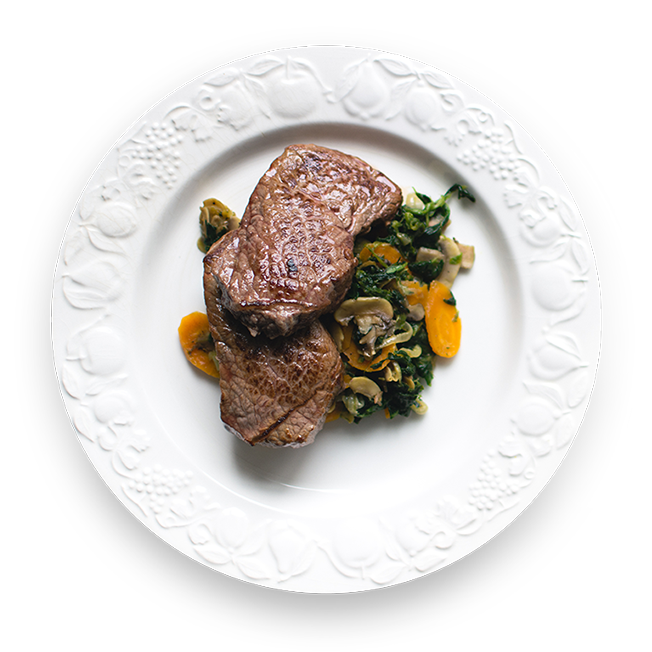
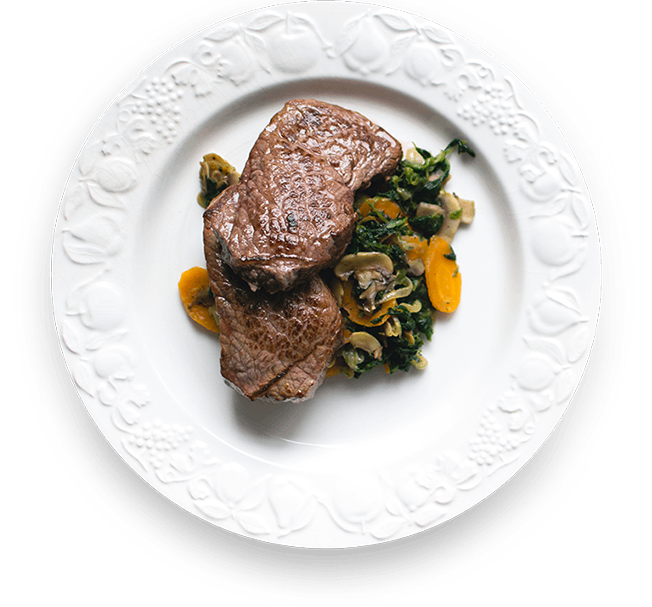
feat: add markup for about section

diff --git a/assets/css/main.min.css b/assets/css/main.min.css
@@ -1,2 +1,2 @@
-.wrapper{max-width:100rem;margin:0 auto}.container{width:100%;max-width:78.125rem;margin:0 auto;padding-left:1.125rem;padding-right:1.125rem}.decorated-heading{display:-webkit-box;display:-ms-flexbox;display:flex;-webkit-box-orient:vertical;-webkit-box-direction:normal;-ms-flex-direction:column;flex-direction:column;-webkit-box-align:center;-ms-flex-align:center;align-items:center}.decorated-heading__decoration{margin-top:1.5625rem}.decorated-heading__decoration--sm{width:14.375rem}*,*::before,*::after{-webkit-box-sizing:border-box;box-sizing:border-box}img,picture{max-width:100%;display:block}body,h1,h2,h3,h4,p,figure,blockquote,dl,dd{margin:0}input,button,textarea,select{font:inherit}h1,.h1,h2,.h2,h3,.h3,h4,.h4,h5,.h5,h6,.h6{font-family:var(--font-primary);font-weight:500}h1--primary,.h1--primary,h2--primary,.h2--primary,h3--primary,.h3--primary,h4--primary,.h4--primary,h5--primary,.h5--primary,h6--primary,.h6--primary{color:red}h1,h1{font-size:2.9rem}h2,h2{font-size:2.25rem}h3,h3{font-size:1.8rem}h4,h4{font-size:1.31rem}h5,h5{font-size:1.2rem}h6,h6{font-size:1.1rem}.header{height:46.875rem;display:-webkit-box;display:-ms-flexbox;display:flex;position:relative;-webkit-box-shadow:inset 0px 50px 85px 10px rgba(25,25,25,0.8);box-shadow:inset 0px 50px 85px 10px rgba(25,25,25,0.8)}.header__bg{position:absolute;z-index:-1;top:0;left:0;width:100%;height:100%;-o-object-fit:cover;object-fit:cover}.header__container{display:-webkit-box;display:-ms-flexbox;display:flex;-webkit-box-orient:vertical;-webkit-box-direction:normal;-ms-flex-direction:column;flex-direction:column}.header__hero{-webkit-box-flex:1;-ms-flex-positive:1;flex-grow:1}.navbar{display:-webkit-box;display:-ms-flexbox;display:flex;height:6.875rem}.navbar__brand{-ms-flex-item-align:center;-ms-grid-row-align:center;align-self:center;font-family:"Yeseva One",cursive;text-transform:uppercase}.navbar__brand-link{color:#fff;font-size:2.25rem;text-decoration:none;-webkit-transition:110ms all ease-in-out;transition:110ms all ease-in-out}.navbar__brand-link:hover{color:#ffc20a}.navbar__nav{display:-webkit-box;display:-ms-flexbox;display:flex;margin-left:auto}.navbar__nav-link{-webkit-box-align:center;-ms-flex-align:center;align-items:center;color:#fff;display:-webkit-box;display:-ms-flexbox;display:flex;font-family:"Gentium Book Basic",serif;font-size:1.31rem;-webkit-box-pack:center;-ms-flex-pack:center;justify-content:center;letter-spacing:.6px;margin-left:1rem;padding:.625rem 1.0625rem;position:relative;text-decoration:none}.navbar__nav-link:hover:not(.navbar__nav-link--active)::before,.navbar__nav-link--active::before{content:"";height:3px;left:0;position:absolute;top:0;width:100%}.navbar__nav-link:hover:not(.navbar__nav-link--active){color:#ffc20a}.navbar__nav-link:hover:not(.navbar__nav-link--active)::before{background-color:rgba(255,255,255,0.28)}.navbar__nav-link--active::before{background-color:rgba(255,255,255,0.71)}.navbar__social{-ms-flex-item-align:center;align-self:center;display:-webkit-box;display:-ms-flexbox;display:flex}.navbar__social-link{-webkit-box-align:center;-ms-flex-align:center;align-items:center;display:-webkit-box;display:-ms-flexbox;display:flex;-webkit-box-pack:center;-ms-flex-pack:center;justify-content:center;margin-left:.3125rem;margin-right:.3125rem}.hero{display:-webkit-box;display:-ms-flexbox;display:flex;-webkit-box-orient:vertical;-webkit-box-direction:normal;-ms-flex-direction:column;flex-direction:column;-webkit-box-pack:center;-ms-flex-pack:center;justify-content:center;-webkit-box-align:center;-ms-flex-align:center;align-items:center;color:#fff;font-family:"Yeseva One",cursive;text-transform:lowercase;padding:6.25rem 7.5rem}.hero__heading{font-size:5.625rem;text-align:center;line-height:1.3}.hero__cta{margin-top:2.1875rem;margin-bottom:2.5rem}.hero__cta .btn{margin-left:.75rem;margin-right:.75rem}.btn{border:none;display:-webkit-inline-box;display:-ms-inline-flexbox;display:inline-flex;font-size:1rem;min-height:47px;padding:0.6em 2.5em;text-align:center;text-decoration:none;text-transform:uppercase;-webkit-transition:220ms all ease-in-out;transition:220ms all ease-in-out;-webkit-box-align:center;-ms-flex-align:center;align-items:center;border-radius:0;cursor:pointer;font-family:"Lato",sans-serif;-webkit-box-pack:center;-ms-flex-pack:center;justify-content:center;line-height:1.1}.btn--primary{background-color:#c90;color:#fff}.btn--primary:focus{-webkit-box-shadow:0 0 0 4px #7a5c00;box-shadow:0 0 0 4px #7a5c00;outline-color:transparent;outline-style:solid}.btn--primary:hover,.btn--primary:active{background-color:#a37a00}.btn--secondary{background-color:rgba(25,25,25,0.7);color:#fff}.btn--secondary:focus{-webkit-box-shadow:0 0 0 4px #191919;box-shadow:0 0 0 4px #191919;outline-color:transparent;outline-style:solid}.btn--secondary:hover,.btn--secondary:active{background-color:#141414}.btn--light{background-color:rgba(255,255,255,0.28);color:#fff}.btn--light:focus{-webkit-box-shadow:0 0 0 4px #999;box-shadow:0 0 0 4px #999;outline-color:transparent;outline-style:solid}.btn--light:hover,.btn--light:active{background-color:rgba(255,255,255,0.8);color:#303030}.btn--sm{font-family:"Open Sans",sans-serif;font-size:1rem;min-height:35px;padding:0.4em 3.8em;text-transform:none}.btn--lg{font-size:1.125rem;min-height:55px;padding:0.7em 2.9em}.icon{height:1.25rem;-webkit-transition:110ms all ease-in-out;transition:110ms all ease-in-out;width:1.25rem}.icon--sm{height:1.4375rem;width:1.4375rem}.icon--primary{fill:#c90}.icon--primary:hover{fill:#fff}
+.wrapper{max-width:100rem;margin:0 auto}.container{width:100%;max-width:78.125rem;margin:0 auto;padding-left:1.125rem;padding-right:1.125rem}.decorated-heading{display:-webkit-box;display:-ms-flexbox;display:flex;-webkit-box-orient:vertical;-webkit-box-direction:normal;-ms-flex-direction:column;flex-direction:column;-webkit-box-align:center;-ms-flex-align:center;align-items:center}.decorated-heading__decoration{margin-top:1.5625rem}.decorated-heading__decoration--sm{width:14.375rem}.py{padding-top:4.375rem;padding-bottom:4.375rem}*,*::before,*::after{-webkit-box-sizing:border-box;box-sizing:border-box}img,picture{max-width:100%;display:block}body,h1,h2,h3,h4,p,figure,blockquote,dl,dd{margin:0}input,button,textarea,select{font:inherit}h1,.h1,h2,.h2,h3,.h3,h4,.h4,h5,.h5,h6,.h6{font-family:"Yeseva One",cursive;font-weight:400}h1,.h1{font-size:2.9rem}h2,.h2{font-size:2.25rem}h3,.h3{font-size:1.8rem}h4,.h4{font-size:1.31rem}h5,.h5{font-size:1.2rem}h6,.h6{font-size:1.1rem}.header{height:46.875rem;display:-webkit-box;display:-ms-flexbox;display:flex;position:relative;-webkit-box-shadow:inset 0px 50px 85px 10px rgba(25,25,25,0.8);box-shadow:inset 0px 50px 85px 10px rgba(25,25,25,0.8)}.header__bg{position:absolute;z-index:-1;top:0;left:0;width:100%;height:100%;-o-object-fit:cover;object-fit:cover}.header__container{display:-webkit-box;display:-ms-flexbox;display:flex;-webkit-box-orient:vertical;-webkit-box-direction:normal;-ms-flex-direction:column;flex-direction:column}.header__hero{-webkit-box-flex:1;-ms-flex-positive:1;flex-grow:1}.about{background-color:rgba(0,128,0,0.541)}.about__wrapper{display:-webkit-box;display:-ms-flexbox;display:flex}.about__about{-webkit-box-flex:0;-ms-flex:0 0 45%;flex:0 0 45%}.about__image-wrapper{-webkit-box-flex:0;-ms-flex:0 0 auto;flex:0 0 auto}.navbar{display:-webkit-box;display:-ms-flexbox;display:flex;height:6.875rem}.navbar__brand{-ms-flex-item-align:center;-ms-grid-row-align:center;align-self:center;font-family:"Yeseva One",cursive;text-transform:uppercase}.navbar__brand-link{color:#fff;font-size:2.25rem;text-decoration:none;-webkit-transition:110ms all ease-in-out;transition:110ms all ease-in-out}.navbar__brand-link:hover{color:#ffc20a}.navbar__nav{display:-webkit-box;display:-ms-flexbox;display:flex;margin-left:auto}.navbar__nav-link{-webkit-box-align:center;-ms-flex-align:center;align-items:center;color:#fff;display:-webkit-box;display:-ms-flexbox;display:flex;font-family:"Gentium Book Basic",serif;font-size:1.31rem;-webkit-box-pack:center;-ms-flex-pack:center;justify-content:center;letter-spacing:.6px;margin-left:1rem;padding:.625rem 1.0625rem;position:relative;text-decoration:none}.navbar__nav-link:hover:not(.navbar__nav-link--active)::before,.navbar__nav-link--active::before{content:"";height:3px;left:0;position:absolute;top:0;width:100%}.navbar__nav-link:hover:not(.navbar__nav-link--active){color:#ffc20a}.navbar__nav-link:hover:not(.navbar__nav-link--active)::before{background-color:rgba(255,255,255,0.28)}.navbar__nav-link--active::before{background-color:rgba(255,255,255,0.71)}.navbar__social{-ms-flex-item-align:center;align-self:center;display:-webkit-box;display:-ms-flexbox;display:flex}.navbar__social-link{-webkit-box-align:center;-ms-flex-align:center;align-items:center;display:-webkit-box;display:-ms-flexbox;display:flex;-webkit-box-pack:center;-ms-flex-pack:center;justify-content:center;margin-left:.3125rem;margin-right:.3125rem}.hero{display:-webkit-box;display:-ms-flexbox;display:flex;-webkit-box-orient:vertical;-webkit-box-direction:normal;-ms-flex-direction:column;flex-direction:column;-webkit-box-pack:center;-ms-flex-pack:center;justify-content:center;-webkit-box-align:center;-ms-flex-align:center;align-items:center;color:#fff;text-transform:lowercase;padding:6.25rem 7.5rem}.hero__heading{font-size:5.625rem;text-align:center;line-height:1.3}.hero__cta{margin-top:2.1875rem;margin-bottom:2.5rem}.hero__cta .btn{margin-left:.75rem;margin-right:.75rem}.btn{border:none;display:-webkit-inline-box;display:-ms-inline-flexbox;display:inline-flex;font-size:1rem;min-height:47px;padding:0.6em 2.5em;text-align:center;text-decoration:none;text-transform:uppercase;-webkit-transition:220ms all ease-in-out;transition:220ms all ease-in-out;-webkit-box-align:center;-ms-flex-align:center;align-items:center;border-radius:0;cursor:pointer;font-family:"Lato",sans-serif;-webkit-box-pack:center;-ms-flex-pack:center;justify-content:center;line-height:1.1}.btn--primary{background-color:#c90;color:#fff}.btn--primary:focus{-webkit-box-shadow:0 0 0 4px #7a5c00;box-shadow:0 0 0 4px #7a5c00;outline-color:transparent;outline-style:solid}.btn--primary:hover,.btn--primary:active{background-color:#a37a00}.btn--secondary{background-color:rgba(25,25,25,0.7);color:#fff}.btn--secondary:focus{-webkit-box-shadow:0 0 0 4px #191919;box-shadow:0 0 0 4px #191919;outline-color:transparent;outline-style:solid}.btn--secondary:hover,.btn--secondary:active{background-color:#141414}.btn--light{background-color:rgba(255,255,255,0.28);color:#fff}.btn--light:focus{-webkit-box-shadow:0 0 0 4px #999;box-shadow:0 0 0 4px #999;outline-color:transparent;outline-style:solid}.btn--light:hover,.btn--light:active{background-color:rgba(255,255,255,0.8);color:#303030}.btn--sm{font-family:"Open Sans",sans-serif;font-size:1rem;min-height:35px;padding:0.4em 3.8em;text-transform:none}.btn--lg{font-size:1.125rem;min-height:55px;padding:0.7em 2.9em}.icon{height:1.25rem;-webkit-transition:110ms all ease-in-out;transition:110ms all ease-in-out;width:1.25rem}.icon--sm{height:1.4375rem;width:1.4375rem}.icon--primary{fill:#c90}.icon--primary:hover{fill:#fff}
 /*# sourceMappingURL=main.min.css.map */

diff --git a/assets/css/main.css b/assets/css/main.css
@@ -32,6 +32,11 @@
   width: 14.375rem;
 }
 
+.py {
+  padding-top: 4.375rem;
+  padding-bottom: 4.375rem;
+}
+
 *,
 *::before,
 *::after {
@@ -71,40 +76,31 @@ h3, .h3,
 h4, .h4,
 h5, .h5,
 h6, .h6 {
-  font-family: var(--font-primary);
-  font-weight: 500;
+  font-family: "Yeseva One", cursive;
+  font-weight: 400;
 }
 
-h1--primary, .h1--primary,
-h2--primary, .h2--primary,
-h3--primary, .h3--primary,
-h4--primary, .h4--primary,
-h5--primary, .h5--primary,
-h6--primary, .h6--primary {
-  color: red;
-}
-
-h1, h1 {
+h1, .h1 {
   font-size: 2.9rem;
 }
 
-h2, h2 {
+h2, .h2 {
   font-size: 2.25rem;
 }
 
-h3, h3 {
+h3, .h3 {
   font-size: 1.8rem;
 }
 
-h4, h4 {
+h4, .h4 {
   font-size: 1.31rem;
 }
 
-h5, h5 {
+h5, .h5 {
   font-size: 1.2rem;
 }
 
-h6, h6 {
+h6, .h6 {
   font-size: 1.1rem;
 }
 
@@ -143,6 +139,28 @@ h6, h6 {
   -webkit-box-flex: 1;
       -ms-flex-positive: 1;
           flex-grow: 1;
+}
+
+.about {
+  background-color: rgba(0, 128, 0, 0.541);
+}
+
+.about__wrapper {
+  display: -webkit-box;
+  display: -ms-flexbox;
+  display: flex;
+}
+
+.about__about {
+  -webkit-box-flex: 0;
+      -ms-flex: 0 0 45%;
+          flex: 0 0 45%;
+}
+
+.about__image-wrapper {
+  -webkit-box-flex: 0;
+      -ms-flex: 0 0 auto;
+          flex: 0 0 auto;
 }
 
 .navbar {
@@ -257,7 +275,6 @@ h6, h6 {
       -ms-flex-align: center;
           align-items: center;
   color: #fff;
-  font-family: "Yeseva One", cursive;
   text-transform: lowercase;
   padding: 6.25rem 7.5rem;
 }

diff --git a/index.html b/index.html
@@ -79,15 +79,30 @@
       </header>
     </div>
 
-    <svg class="icon icon-cc-amex">
-      <use href="./assets/icons/symbol-defs.svg#icon-cc-amex"></use>
-    </svg>
-
-    <h1>Heading 1</h1>
-    <h2>Heading 2</h2>
-    <h3>Heading 3</h3>
-    <h4>Heading 4</h4>
-    <h5>Heading 5</h5>
-    <h6>Heading 6</h6>
+    <section id="about" class="about py">
+      <div class="container about__wrapper">
+        <div class="about__about">
+          <h3 class="h2 about__heading">Just the right food</h3>
+          <p class="about__text">
+            If you’ve been to one of our restaurants, you’ve seen – and tasted –
+            what keeps our customers coming back for more. Perfect materials and
+            freshly baked food, delicious Lambda cakes, muffins, and gourmet
+            coffees make us hard to resist! Stop in today and check us out!
+          </p>
+          <img
+            src="./assets/images/cook.png"
+            alt="Our expert cook decorating one of our specials and his signature"
+            class="about__portrait"
+          />
+        </div>
+        <div class="about__image-wrapper">
+          <img
+            src="./assets/images/plate-dish.png"
+            alt="Beautiful steak with carrots, mushrooms and other vegetables served on white plate."
+            class="about__image"
+          />
+        </div>
+      </div>
+    </section>
   </body>
 </html>

diff --git a/assets/scss/base/_typography.scss b/assets/scss/base/_typography.scss
@@ -4,29 +4,25 @@ h3, .h3,
 h4, .h4,
 h5, .h5,
 h6, .h6 {
-	font-family: var(--font-primary);
-	font-weight: 500;
-
-	&--primary {
-		color: red;
-	}
+	font-family: $font-brand;
+	font-weight: 400;
 }
 
-h1, h1 {
+h1, .h1 {
 	font-size: $h1-font-size;
 }
-h2, h2 {
+h2, .h2 {
 	font-size: $h2-font-size;
 }
-h3, h3 {
+h3, .h3 {
 	font-size: $h3-font-size;
 }
-h4, h4 {
+h4, .h4 {
 	font-size: $h4-font-size;
 }
-h5, h5 {
+h5, .h5 {
 	font-size: $h5-font-size;
 }
-h6, h6 {
+h6, .h6 {
 	font-size: $h6-font-size;
 }

diff --git a/assets/scss/components/_hero.scss b/assets/scss/components/_hero.scss
@@ -4,7 +4,6 @@
 	justify-content: center;
 	align-items: center;
 	color: $white;
-	font-family: $font-brand;
 	text-transform: lowercase;
 	padding: rem(100px) rem(120px);
 	
@@ -17,7 +16,7 @@
 	&__cta {
 		margin-top: rem(35px);
 		margin-bottom: rem(40px);
-		
+
 		.btn {
 			margin-left: rem(12px);
 			margin-right: rem(12px);

diff --git a/assets/scss/layout/_main.scss b/assets/scss/layout/_main.scss
@@ -1,0 +1,13 @@
+.about {
+	background-color: rgba(0, 128, 0, 0.541);
+	&__wrapper {
+		display: flex;
+	}
+
+	&__about {
+		flex: 0 0 45%;
+	}
+	&__image-wrapper {
+		flex: 0 0 auto;
+	}
+}

diff --git a/assets/scss/base/_base.scss b/assets/scss/base/_base.scss
@@ -24,3 +24,8 @@
 		}
 	}
 }
+
+.py {
+	padding-top: rem(70px);
+	padding-bottom: rem(70px);
+}
